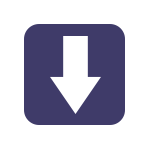
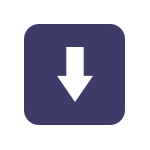
added arrow images to soundbite page

Changed region(s): [[0.32, 0.24, 0.6667, 0.7733]]

diff --git a/js/attribute-soundbites.js b/js/attribute-soundbites.js
@@ -10,7 +10,7 @@ AttributeSoundbites.prototype.initVis = function() {
 
     vis.margin = {top: 20, right: 120, bottom: 20, left: 150};
     vis.width = $("#" + vis.parentElement).width() - vis.margin.left - vis.margin.right;
-    vis.height = 300 - vis.margin.top - vis.margin.bottom;
+    vis.height = 400 - vis.margin.top - vis.margin.bottom;
 
     vis.svg = d3.select("#" + vis.parentElement).append("svg")
         .attr("width", vis.width + vis.margin.left + vis.margin.right)
@@ -64,22 +64,22 @@ AttributeSoundbites.prototype.updateVis = function() {
 
     vis.topButtons
         .enter()
-        .append("circle")
+        .append("svg:image")
         .attr("class", "top-buttons")
-        .attr("cx", function(d,i) { return vis.xScale(i); })
-        .attr("cy", 75)
-        .attr("r", 20);
+        .attr("xlink:href", "img/up-arrow.png")
+        .attr("x", function(d,i) { return vis.xScale(i) - 75; })
+        .attr("y", -10);
 
     vis.bottomButtons = vis.svg.selectAll(".bottom-buttons")
         .data(vis.data);
 
     vis.bottomButtons
         .enter()
-        .append("circle")
+        .append("svg:image")
         .attr("class", "bottom-buttons")
-        .attr("cx", function(d,i) { return vis.xScale(i); })
-        .attr("cy", 225)
-        .attr("r", 20);
+        .attr("xlink:href", "img/down-arrow.png")
+        .attr("x", function(d,i) { return vis.xScale(i) - 75; })
+        .attr("y", 155);
 
     // vis.test = vis.svg.append("circle").attr("cx", 100).attr("cy", 100).attr("r", 20);
     //
